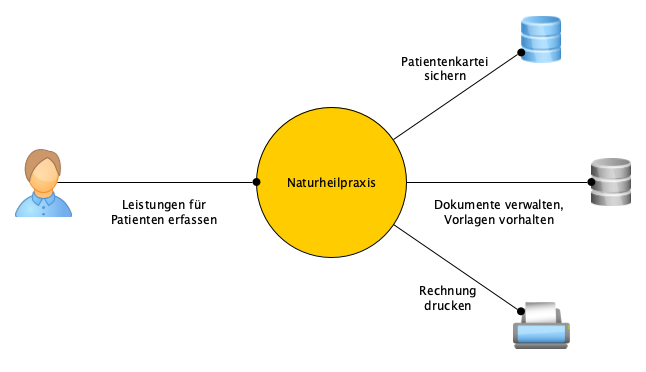
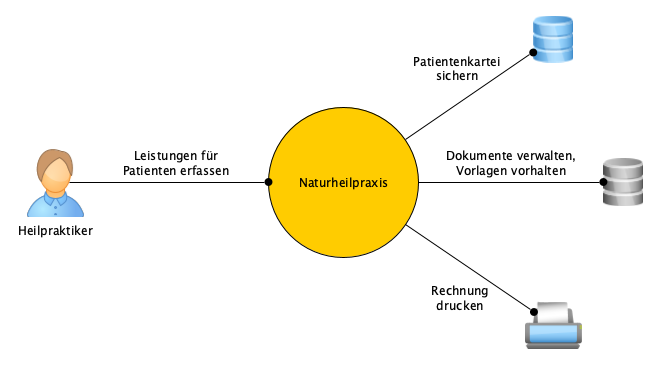
Use-Cases für Patienten verwalten dokumentiert

diff --git a/doc/Use-Cases.md b/doc/Use-Cases.md
@@ -10,4 +10,57 @@ können auf eine lokalen Drucker ausgegeben werden.
 
 ## Überblick
 
-![Use-Case-Überblick](Use-Case-Ueberblick.png)
+![Überblick](Use-Cases.png)
+
+## Patienten verwalten
+
+Als Heilpraktiker lege ich einen neuen Patienten an. Ich erfasse Name,
+Anschrift, Kontaktmöglichkeit, Praxis, Annahmejahr, Geburtsdatum und weitere
+Informationen. Die Praxis ist mit der Standardpraxis vorbelegt. Das Annahmejahr
+ist mit dem aktuellen Jahr vorbelegt. Als Merkmale sind Standardmerkmale
+vorausgewählt. Um Duplikate beim Anlegen zu vermeiden, wird vor dem Sichern nach
+vorhandenen Patienten mit dem selben Vor- und Nachnamen sowie Geburtstag
+gesucht. Existiert ein solcher Patient wird vor dem sichern nachgefragt, ob der
+neue Patient wirklich angelegt werden soll.
+
+Als Heilpraktiker bearbeite ich einen vorhanden Patienten. Als erstes muss ich
+den _Patient suchen_. Zum Bearbeiten wird der Patient aus der Liste ausgewählt.
+Alle Informationen die beim Anlegen erfasst werden, können geändert werden.
+
+## Leistungen erfassen
+
+Als Heilpraktiker erfasse ich erbrachte Leistungen für einen Patienten. Zunächst
+muss der Patient ausgewählt werden, für den Leistungen erfasst werden. Dies
+erfolgt mit _Patient suchen_. Aus der Liste wird der gesuchte Patient
+ausgewählt. Es werden alle bisher erbrachten Leistungen aufgelistet.
+
+Als Heilpraktiker lösche ich eine erbrachte Leistungen für einen Patienten.
+\[...\]
+
+Als Heilpraktiker bearbeite ich das Gebührenverzeichnis für Heilpraktiker.
+\[...\]
+
+## Rechnung schreiben
+
+Als Heilpraktiker erstelle ich eine Rechnung für erbrachte Leistungen.
+\[...\]
+
+Als Heilpraktiker annuliere ich eine bestehende Rechnung.
+\[...\]
+
+Als Heilpraktiker drucke ich eine bestehende Rechnung.
+\[...\]
+
+## Patient suchen
+
+Als Heilpraktiker suche ich einen bestimmten Patienten. Um den Patienten zu
+finden kann nach Patienten-ID, Nachname, Vorname, Geburtstag, Straße, Wohnort,
+Postleitzahl, Telefonnummer und Annahmejahr gesucht werden. Die Liste der
+gefundenen Patienten kann nach jeder Spalte sortiert werden. Die
+Standardsortierung ist nach Patienten-ID. Ohne Suchkritierium, werden alle
+Patienten in der Liste aufgeführt.
+
+## Rechnung suchen
+
+Als Heilpraktiker suche ich eine bestimmte Rechnung.
+\[...\]
